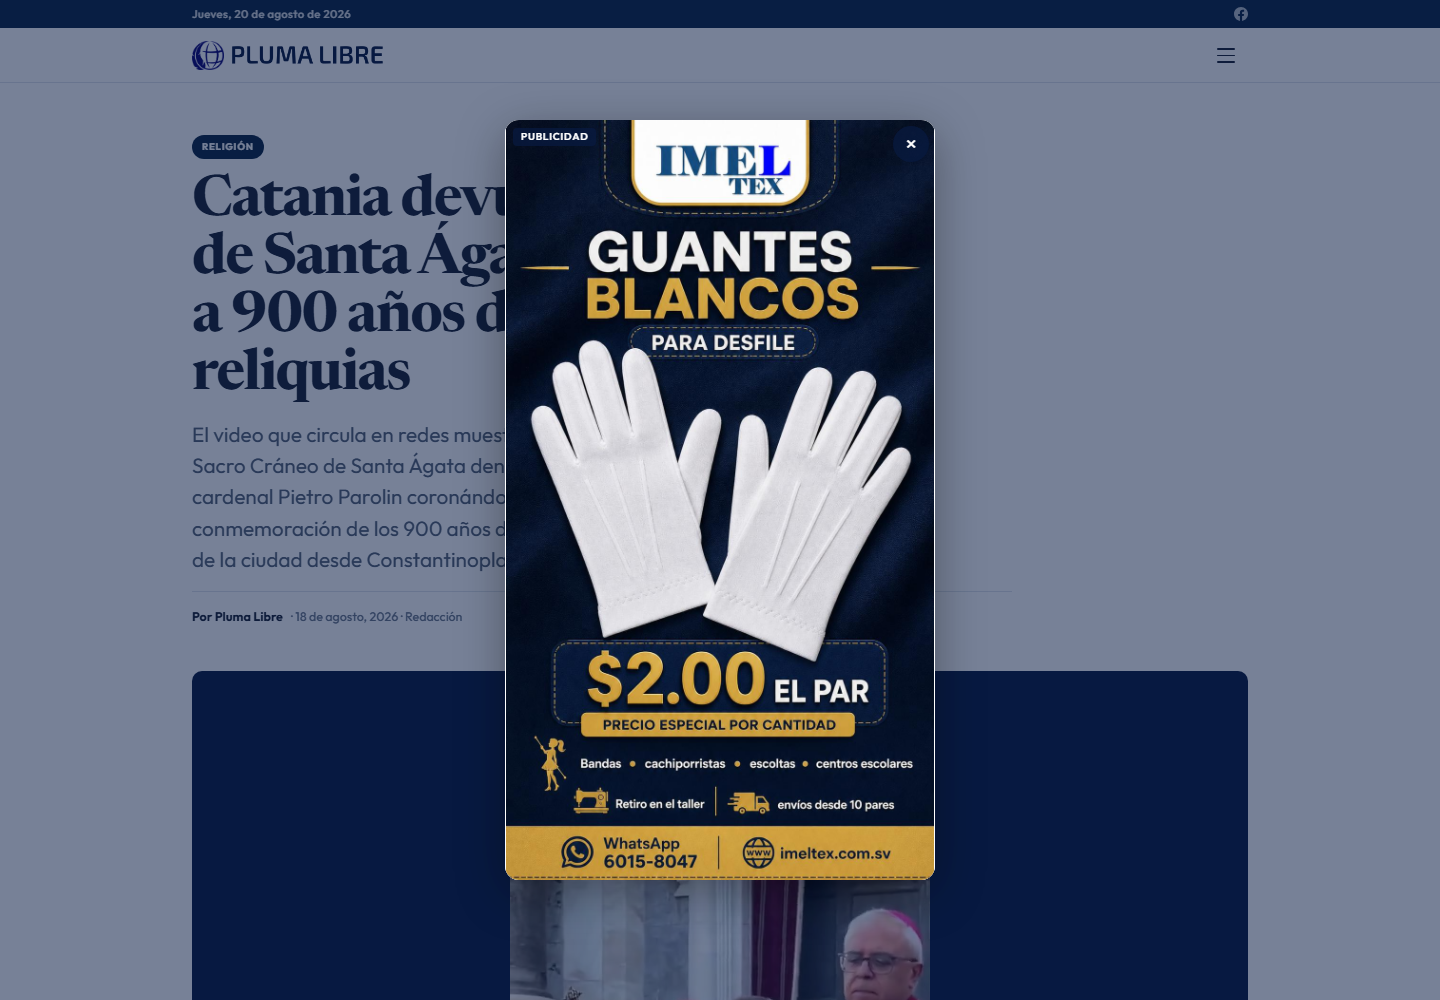
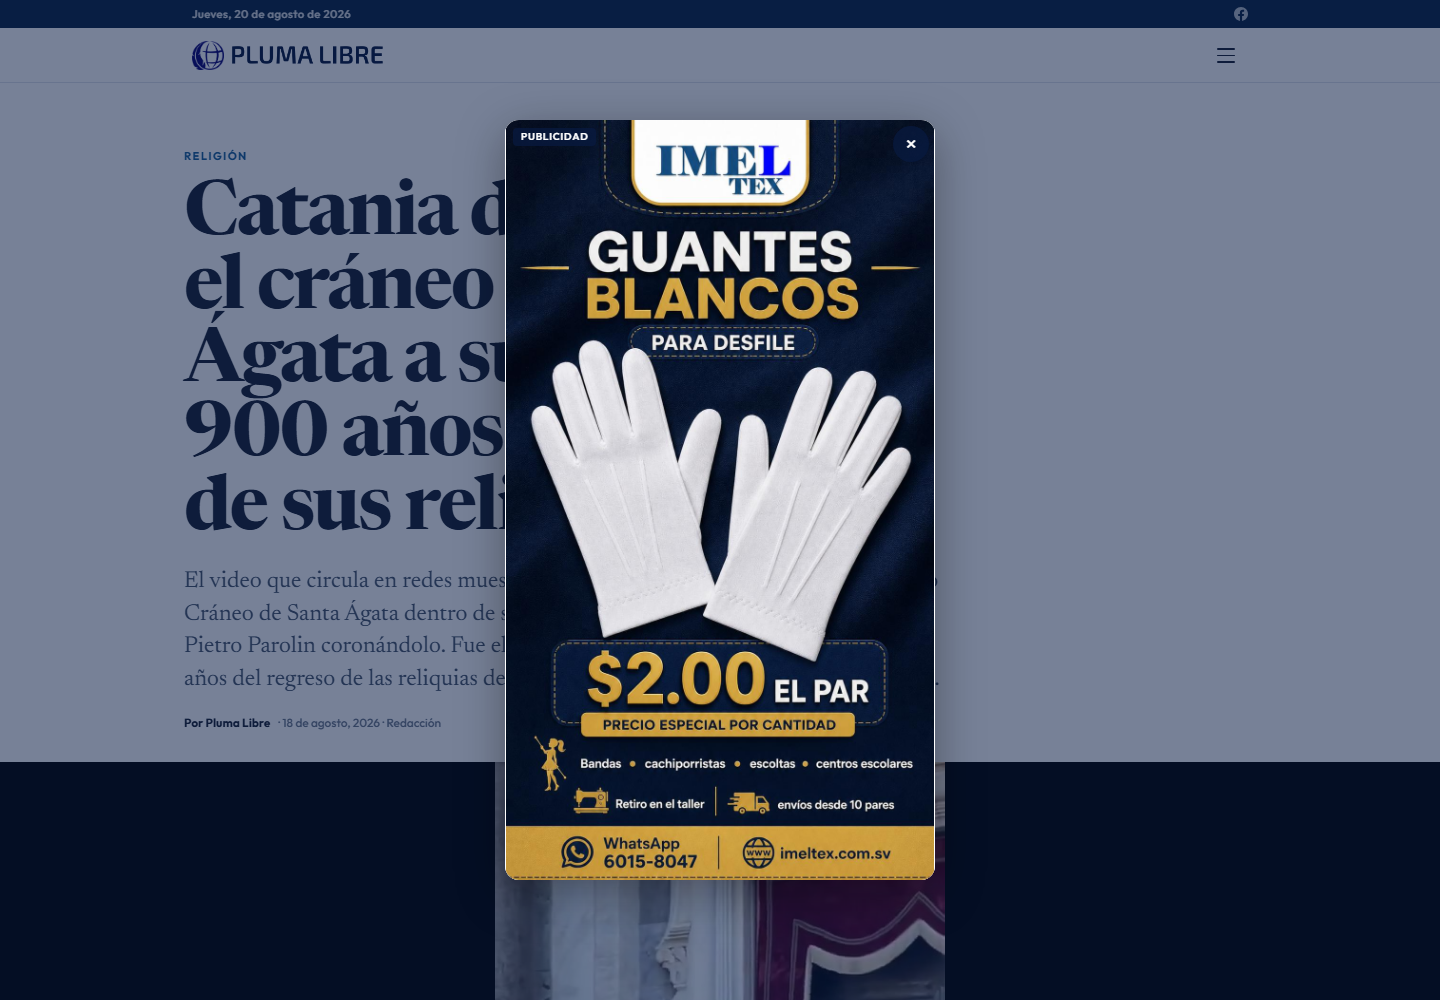
Transforma Pluma Libre en un feed editorial inmersivo

Changed region(s): [[0.0, 0.124, 0.4062, 1.0], [0.4375, 0.651, 1.0, 1.0]]

diff --git a/style.css b/style.css
@@ -1441,3 +1441,151 @@ body{line-height:1.65}.wrap{padding-inline:16px}a:focus-visible,button:focus-vis
 @media(min-width:640px){.wrap{padding-inline:24px}.news-grid{gap:18px}.card{min-height:0}.card .thumb{height:190px}.card .info{padding:16px 16px 18px}.card h3{font-size:1.25rem}.card .meta{margin-top:10px}.card-lg{padding-bottom:22px}.card-lg>:not(.img-wrap){margin-inline:22px}}
 @media(min-width:900px){.wrap{padding-inline:32px}.home-hero{padding-top:24px}.home-hero-grid{gap:28px}.hh-slide .hh-body{padding:20px 24px 56px}.hh-slide h2{font-size:2.55rem}.home-hero-sidebar{gap:10px}.home-hero-secondary{padding:10px}.home-hero-secondary .thumb{width:96px;height:86px}.home-hero-secondary h3{font-size:1.08rem}.section-head{margin-top:40px}.section-head h2{font-size:1.8rem}.news-grid{gap:22px 18px}.card .thumb{height:184px}.article-header{max-width:820px;padding-top:48px}.article-header h1{font-size:3.55rem}.article-header .subtitle{font-size:1.3rem}.article-body{max-width:720px}.article-body p{font-size:1.25rem;line-height:1.76}}
 @media(prefers-reduced-motion:reduce){html{scroll-behavior:auto}*,*::before,*::after{animation-duration:.01ms!important;transition-duration:.01ms!important}}
+
+
+/* ============================================
+   PLUMA LIBRE — RENOVACION EDITORIAL 2026
+   Feed continuo, fotografia protagonista y
+   superficies abiertas. Mobile first.
+   ============================================ */
+body{background:#fff}
+main{overflow:hidden}
+.wrap{width:100%}
+.section-head{border:0}
+.section-head::after{content:"";width:36px;height:3px;background:var(--brand);border-radius:3px;margin-left:auto}
+.card,.card-lg,.home-hero-carousel,.home-hero-secondary,.pl-rel-card,.pl-ad--banner-c,.contact-cta{background:transparent;border:0;box-shadow:none;border-radius:0}
+.card:hover,.card-lg:hover,.home-hero-secondary:hover,.pl-rel-card:hover{border:0;box-shadow:none;transform:none}
+
+/* Portada fotografica */
+.home-hero{padding:0}
+.home-hero>.wrap{padding:0}
+.home-hero-grid{display:block}
+.home-hero-carousel{position:relative;isolation:isolate;background:var(--brand);overflow:hidden}
+.hh-track{transition:transform .55s cubic-bezier(.22,.61,.36,1)}
+.hh-slide{height:min(76svh,680px);min-height:500px;background:var(--brand)}
+.hh-slide .img{position:absolute;inset:0;aspect-ratio:auto;height:100%;background:var(--brand)}
+.hh-slide .img::after{content:"";position:absolute;inset:0;background:linear-gradient(180deg,rgba(8,26,65,.04) 28%,rgba(8,26,65,.25) 52%,rgba(4,14,34,.94) 100%);pointer-events:none}
+.hh-slide .img img{height:100%;object-fit:cover}
+.hh-slide .hh-body{position:absolute;z-index:2;left:0;right:0;bottom:0;padding:28px 20px 76px;color:#fff}
+.hh-slide .kicker{color:#fff;font-family:var(--font-body);font-size:.7rem;letter-spacing:.12em;margin-bottom:9px}
+.hh-slide h2{color:#fff;font-size:clamp(2rem,9vw,3rem);line-height:1.01;text-wrap:balance;text-shadow:0 2px 18px rgba(0,0,0,.28)}
+.hh-slide h2 a:hover{color:#fff}
+.hh-slide .meta{color:rgba(255,255,255,.76);font-size:.72rem}
+.hh-ctrl{left:16px;right:16px;bottom:20px;justify-content:space-between}
+.hh-nav{width:40px;height:40px;border:1px solid rgba(255,255,255,.42);background:rgba(8,26,65,.22);color:#fff;backdrop-filter:blur(8px)}
+.hh-nav:hover,.hh-nav:focus-visible{background:#fff;color:var(--brand);border-color:#fff}
+.hh-dots{position:absolute;left:50%;transform:translateX(-50%);gap:7px}
+.hh-dot{width:6px;height:6px;background:rgba(255,255,255,.48)}
+.hh-dot[aria-current=true]{width:24px;background:#fff}
+.home-hero-sidebar{display:flex;flex-direction:row;gap:18px;padding:18px 16px 8px;overflow-x:auto;scroll-snap-type:x proximity;scrollbar-width:none;background:#fff}
+.home-hero-sidebar::-webkit-scrollbar{display:none}
+.home-hero-secondary{flex:0 0 76vw;display:grid;grid-template-columns:96px 1fr;gap:12px;padding:0;scroll-snap-align:start}
+.home-hero-secondary .thumb{width:96px;height:82px;border-radius:0}
+.home-hero-secondary .info{justify-content:flex-start;padding-top:2px}
+.home-hero-secondary .kicker{color:var(--accent);margin-bottom:3px}
+.home-hero-secondary h3{font-size:1.08rem;line-height:1.12}
+.home-hero-secondary.is-active{background:transparent;border:0;box-shadow:none}
+.home-hero-secondary.is-active h3 a{color:var(--text-primary)}
+
+/* Feed sin cajas */
+.section-head{margin:34px 0 16px;padding:0;align-items:center}
+.section-head h2{font-size:1.75rem}
+.news-grid{display:block;padding-bottom:8px}
+.card{display:flex;flex-direction:column;gap:0;min-height:0;margin:0 -16px 32px;padding:0}
+.card .thumb{width:100%;height:auto;aspect-ratio:16/9;border-radius:0}
+.card .thumb img{object-position:center;transition:transform .45s var(--ease)}
+.card:hover .thumb img{transform:scale(1.015)}
+.card .info{display:block;padding:14px 16px 0}
+.card .badge-sm{display:block;margin-bottom:5px}
+.card h3{font-size:1.45rem;line-height:1.08;text-wrap:balance}
+.card .meta{margin-top:8px;padding:0}
+.news-grid>.hero-article{margin-inline:-16px;border:0;border-radius:0}
+.card-lg{margin:0 -16px 38px;padding:0;overflow:visible}
+.card-lg .img-wrap{width:100%;aspect-ratio:16/9;margin:0 0 16px;border-radius:0}
+.card-lg>:not(.img-wrap){margin-inline:16px}
+.card-lg h3{font-size:1.7rem;line-height:1.08;text-wrap:balance}
+.card-lg .excerpt{font-size:1rem;line-height:1.5;margin-top:9px}
+.card-lg .meta{margin-top:9px}
+
+/* Nota: apertura amplia y lectura serena */
+.article-page main>.wrap{padding-inline:16px}
+.article-page .article-header{padding:34px 0 20px}
+.article-header .badge{padding:0;background:transparent;color:var(--accent);border-radius:0;font-size:.7rem;letter-spacing:.12em}
+.article-header h1{font-size:clamp(2.5rem,12vw,4.1rem);line-height:.98;margin-top:12px;text-wrap:balance}
+.article-header .subtitle{font-family:var(--font-display);font-size:1.24rem;line-height:1.4;color:#455469;margin-top:18px}
+.article-meta{margin-top:18px;padding-top:0;border:0;font-size:.74rem;color:var(--text-tertiary)}
+.article-img{width:auto;margin:0 -16px 30px;border-radius:0;background:var(--brand)!important}
+.article-img img,.article-img video{width:100%!important;max-width:none!important;max-height:78svh!important;object-fit:cover}
+.article-img figcaption{width:100%;margin:0;padding:9px 16px 0;background:#fff;color:var(--text-tertiary);font-family:var(--font-body);font-style:normal}
+.article-img-body{margin:30px -16px;border-radius:0;max-height:none}
+.article-img-body img{width:100%;max-height:78svh;object-fit:cover}
+.article-body{max-width:680px;margin-inline:auto;padding:10px 0 52px}
+.article-body p{font-size:1.22rem;line-height:1.74}
+.article-body h2{font-size:1.85rem;line-height:1.08}
+.article-body h3{font-size:1.48rem}
+.article-body blockquote{margin-inline:-16px;padding:24px 20px;border:0;background:#F0F4F8;font-size:1.25rem;line-height:1.55}
+.contact-cta{margin:8px 0 34px;padding:22px 0;text-align:left;border-top:1px solid #DDE3EA;border-bottom:1px solid #DDE3EA}
+
+/* Relacionadas y publicidad integradas */
+.pl-rel{margin:40px -16px 12px;padding:24px 16px 0;border:0;background:#F3F6F9}
+.pl-rel-t{font-size:1.55rem;margin-bottom:18px}
+.pl-rel-grid{display:block}
+.pl-rel-card{display:grid;grid-template-columns:112px 1fr;gap:13px;margin-bottom:18px;overflow:visible}
+.pl-rel-card img{width:112px;height:96px;aspect-ratio:auto}
+.pl-rel-tit{padding:2px 0 4px;font-size:1.08rem;line-height:1.16}
+.pl-rel-meta{padding:0;font-size:.68rem}
+.pl-ad{margin-block:22px}
+.pl-ad-sobria .pl-ad-frame,.pl-ad-integrada{border:0;border-radius:0}
+.pl-ad--banner-a{margin-top:0}
+.pl-ad--banner-c{margin:10px -16px 34px}
+.pl-ad--banner-c .pl-ad-label{padding-inline:16px}
+.pl-ad--banner-c .pl-ad-frame{aspect-ratio:16/9}
+.share{border:0;margin-top:12px;padding-top:0}
+.share-btns a{border-radius:4px}
+.follow-us{border:0}
+
+/* Escritorio: gran fotografia con aire, grilla editorial abierta */
+@media(min-width:640px){
+  .home-hero-sidebar{padding-inline:24px}
+  .home-hero-secondary{flex-basis:360px}
+  .news-grid{display:grid;grid-template-columns:repeat(2,1fr);gap:42px 24px}
+  .card{margin:0}
+  .card .info{padding:16px 0 0}
+  .card h3{font-size:1.5rem}
+  .card-lg{margin-inline:0}
+  .card-lg>:not(.img-wrap){margin-inline:0}
+  .article-page main>.wrap{padding-inline:24px}
+  .article-img{margin-inline:calc((100% - 100vw)/2)}
+  .article-img img,.article-img video{max-height:80vh!important;object-fit:contain}
+  .article-img figcaption{padding-inline:max(24px,calc((100vw - 720px)/2))}
+  .article-img-body{margin-inline:calc((680px - 100vw)/2)}
+  .article-body blockquote{margin-inline:-28px}
+  .pl-rel{margin-inline:calc((680px - 100vw)/2);padding-inline:max(24px,calc((100vw - 1080px)/2))}
+  .pl-rel-grid{display:grid}
+  .pl-rel-card{display:block;margin:0}
+  .pl-rel-card img{width:100%;height:auto;aspect-ratio:16/9}
+  .pl-rel-tit{padding-top:10px}
+}
+@media(min-width:900px){
+  .home-hero>.wrap{max-width:none}
+  .home-hero-grid{display:grid;grid-template-columns:minmax(0,1fr) 380px;gap:0;background:#fff}
+  .hh-slide{height:min(78vh,780px)}
+  .hh-slide .hh-body{padding:36px 48px 82px;max-width:920px}
+  .hh-slide h2{font-size:clamp(3rem,4.5vw,4.75rem)}
+  .hh-ctrl{left:44px;right:44px;bottom:28px}
+  .home-hero-sidebar{display:flex;flex-direction:column;overflow:visible;padding:24px 28px;gap:20px}
+  .home-hero-secondary{flex:auto;display:grid;grid-template-columns:110px 1fr}
+  .home-hero-secondary .thumb{width:110px;height:88px}
+  .home-hero-secondary h3{font-size:1.05rem}
+  .section-head{margin-top:52px}
+  .news-grid{grid-template-columns:repeat(3,1fr);gap:52px 28px}
+  .card .thumb{height:auto}
+  .card h3{font-size:1.55rem}
+  .card-lg h3{font-size:2rem}
+  .article-page .article-header{max-width:920px;padding-top:58px;padding-bottom:30px}
+  .article-header h1{font-size:4.7rem}
+  .article-header .subtitle{max-width:780px;font-size:1.45rem}
+  .article-body p{font-size:1.28rem;line-height:1.78}
+  .article-body h2{font-size:2.1rem}
+}
+@media(prefers-reduced-motion:reduce){.hh-track{transition:none}}

diff --git a/sw.js b/sw.js
@@ -7,7 +7,7 @@
 // - skipWaiting NO automático: el SW nuevo activa cuando todas las pestañas se cierran
 //   (en un sitio editorial es lo natural — el lector navega de una nota a otra).
 
-const CACHE_VERSION = 'pl-v14';
+const CACHE_VERSION = 'pl-v15';
 const SHELL = [
   '/',
   '/index.html',
